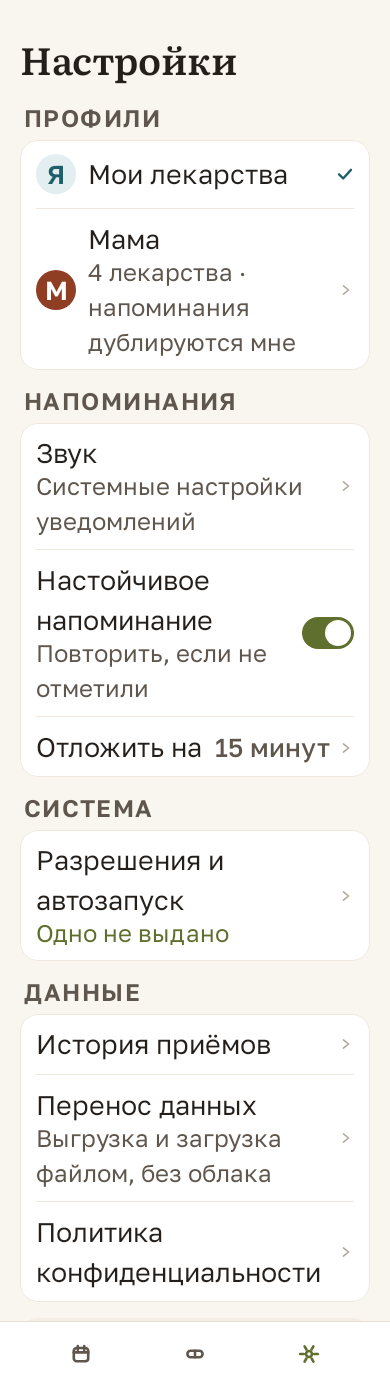
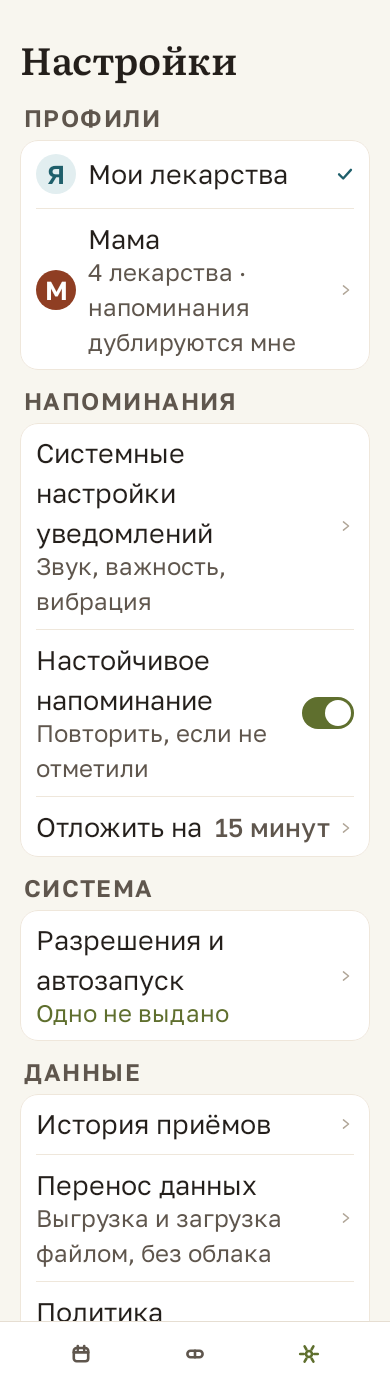
feat(SKL-134): let the settings row name the screen it opens
The row in the reminders block was called "Звук" and described as the system notification
settings. The title promised a melody picker, while the screen it opens holds much more: the
notification switch, both channels, and sound, importance, vibration and do-not-disturb for
each of them. The customer pointed at it while accepting the palette (SKL-109); Р-52 records
the decision.

The wording is not new: "Системные настройки уведомлений" is the caption ОВ-98 recorded and
ADR-0004 pins. It moves into the title (naming the screen), and the caption names what is
inside, in the words of the channel table of 10-behavior §5.6. The row still has no value,
still carries the chevron and still leads out of the app - that is ОВ-98 and ADR-0004 and did
not change. Code identifiers (`settings_sound`, `OpenSound`, `TAG_SOUND_ROW`) stay: they name
the entrance to where the reminder sound lives.

All six locales carry the pair. The German title could not be one long compound: the
localization matrix caught `System-Benachrichtigungseinstellungen` breaking inside a word in
the text column, which §10 forbids, so it became "Benachrichtigungen im System", wrapping at
spaces. §10 now names the rule for row copy - a word has to fit the column - and V-19 gained
the same orphan line seen on the English settings sheet.

Acceptance that asserted the old copy was brought to the new pair where it lived (SKL-20,
SKL-78), and the task has its own SKL-134.feature. Three settings baselines and six contact
[…]

diff --git a/app/src/testDebug/kotlin/ru/stohastika/sklyanka/acceptance/settings/SettingsRemindersScreenSteps.kt b/app/src/testDebug/kotlin/ru/stohastika/sklyanka/acceptance/settings/SettingsRemindersScreenSteps.kt
@@ -40,7 +40,8 @@ import ru.stohastika.sklyanka.feature.reminder.R as ReminderR
 import ru.stohastika.sklyanka.feature.settings.R as SettingsR
 
 /**
- * Экранные шаги приёмки настроек «Звук» и «Отложить на» (SKL-78, группа `@screen`).
+ * Экранные шаги приёмки строки перехода в системные настройки и «Отложить на»
+ * (SKL-78, SKL-134, группа `@screen`).
  *
  * Шаги живут в `app`, потому что сценарий последнего примера говорит и о карточке
  * напоминания (`feature-reminder`), и о настройках (`feature-settings`) — вместе их
@@ -65,10 +66,10 @@ class SettingsRemindersScreenSteps(private val world: AcceptanceWorld) {
         }
     }
 
-    // --- Звук ----------------------------------------------------------------------------------
+    // --- Строка перехода в системные настройки -------------------------------------------------
 
-    @Когда("^человек нажимает строку «Звук»$")
-    fun thePersonTapsTheSoundRow() {
+    @Когда("^человек нажимает строку «Системные настройки уведомлений»$")
+    fun thePersonTapsTheTransitionRow() {
         SettingsRemindersStand.act(world) {
             onNodeWithText(string(SettingsR.string.settings_sound), useUnmergedTree = true)
                 .performScrollTo()
@@ -79,14 +80,14 @@ class SettingsRemindersScreenSteps(private val world: AcceptanceWorld) {
     @Тогда("^приложение открывает системные настройки уведомлений приложения$")
     fun theAppOpensTheSystemNotificationSettings() {
         assertEquals(
-            "the «Звук» row must lead to the system notification settings (ОВ-98)",
+            "the row must lead to the system notification settings (ОВ-98, Р-52)",
             1,
             SettingsRemindersStand.soundOpened,
         )
     }
 
-    @Когда("^человек смотрит на строку «Звук»$")
-    fun thePersonLooksAtTheSoundRow() {
+    @Когда("^человек смотрит на строку «Системные настройки уведомлений»$")
+    fun thePersonLooksAtTheTransitionRow() {
         SettingsRemindersStand.ask(world) {
             onNodeWithText(string(SettingsR.string.settings_sound), useUnmergedTree = true).performScrollTo()
         }
@@ -105,12 +106,29 @@ class SettingsRemindersScreenSteps(private val world: AcceptanceWorld) {
         assertEquals("the sound must not be chosen inside the app (ПМ-15)", emptyList<String>(), offenders)
     }
 
-    @И("^строка подписана «Системные настройки уведомлений» и показывает шеврон$")
-    fun theRowNamesItsDestination() {
-        assertEquals("Системные настройки уведомлений", string(SettingsR.string.settings_sound_caption))
+    @И("^строка названа «Системные настройки уведомлений»$")
+    fun theRowIsNamedAfterTheScreenItOpens() {
+        // Пара «заголовок + подпись» — это и есть предмет приёмки (Р-52), поэтому ожидание
+        // названо литералом, а не взято из того же ресурса, что проверяется.
+        assertEquals("Системные настройки уведомлений", string(SettingsR.string.settings_sound))
         SettingsRemindersStand.ask(world) {
-            // Шеврон — не текст: о переходе говорит нажимаемость строки вместе с подписью.
-            onNode(hasText(string(SettingsR.string.settings_sound_caption)) and hasClickAction()).assertExists()
+            onNodeWithText(string(SettingsR.string.settings_sound), useUnmergedTree = true).assertExists()
+        }
+    }
+
+    @И("^строка подписана «Звук, важность, вибрация»$")
+    fun theRowNamesWhatTheScreenHolds() {
+        assertEquals("Звук, важность, вибрация", string(SettingsR.string.settings_sound_caption))
+        SettingsRemindersStand.ask(world) {
+            onNodeWithText(string(SettingsR.string.settings_sound_caption), useUnmergedTree = true).assertExists()
+        }
+    }
+
+    @И("^строка нажимается$")
+    fun theRowIsTappable() {
+        SettingsRemindersStand.ask(world) {
+            // Шеврон — не текст: о переходе говорит нажимаемость строки, а ведёт он наружу.
+            onNode(hasText(string(SettingsR.string.settings_sound)) and hasClickAction()).assertExists()
         }
     }
 
@@ -299,7 +317,7 @@ class SettingsRemindersScreenSteps(private val world: AcceptanceWorld) {
     )
 
     private companion object {
-        /** Прежнее фальшивое значение строки «Звук», снятое ОВ-98. */
+        /** Прежнее фальшивое значение строки, снятое ОВ-98. */
         const val FAKE_SOUND_VALUE = "Мягкий сигнал"
 
         /** Обещание выбора звука внутри приложения. */

diff --git a/feature-settings/src/testDebug/kotlin/ru/stohastika/sklyanka/acceptance/settings/SettingsScreenSteps.kt b/feature-settings/src/testDebug/kotlin/ru/stohastika/sklyanka/acceptance/settings/SettingsScreenSteps.kt
@@ -140,16 +140,17 @@ class SettingsScreenSteps(private val world: AcceptanceWorld) {
     }
 
     /**
-     * SKL-78, ОВ-98: у строки «Звук» значения нет, а подпись называет, куда ведёт переход.
+     * SKL-78, ОВ-98, Р-52: у строки значения нет, заголовок называет экран, в который она
+     * ведёт, а подпись — то, что на нём настраивается.
      *
      * Фальшивое «Мягкий сигнал» снято: звук — свойство неизменяемого канала, и выбирается
      * он в системном экране уведомлений приложения.
      */
-    @Тогда("^строка «Звук» не показывает значения и подписана «(.+?)»$")
-    fun theSoundRowCarriesNoValueButNamesThePlace(caption: String) {
+    @Тогда("^строка «Системные настройки уведомлений» не показывает значения и подписана «(.+?)»$")
+    fun theRowCarriesNoValueButNamesTheScreen(caption: String) {
         val state = SettingsScreenProbe.state(world)
-        assertTrue(hasText(state, string(R.string.settings_sound)), "the sound row must be there")
-        assertTrue(hasText(state, caption), "the sound row must carry «$caption»")
+        assertTrue(hasText(state, string(R.string.settings_sound)), "the transition row must be there")
+        assertTrue(hasText(state, caption), "the transition row must carry «$caption»")
         assertFalse(
             hasText(state, FAKE_SOUND_VALUE),
             "the fake sound value must be gone (ПМ-15 п. 3, ОВ-98)",
@@ -532,7 +533,7 @@ class SettingsScreenSteps(private val world: AcceptanceWorld) {
         val SOUND_KEYS = listOf("звук для", "звук лекарства", "выбрать звук")
         val LINKS = listOf("http", "www.", ".ru/", ".com/", "mailto")
 
-        /** Прежнее фальшивое значение строки «Звук», снятое ОВ-98. Литерал намеренный. */
+        /** Прежнее фальшивое значение строки, снятое ОВ-98. Литерал намеренный. */
         const val FAKE_SOUND_VALUE = "Мягкий сигнал"
 
         /**

diff --git a/feature-settings/src/testDebug/kotlin/ru/stohastika/sklyanka/feature/settings/SettingsScreenTest.kt b/feature-settings/src/testDebug/kotlin/ru/stohastika/sklyanka/feature/settings/SettingsScreenTest.kt
@@ -92,7 +92,8 @@ class SettingsScreenTest {
     }
 
     /**
-     * SKL-78, ОВ-98: у строки «Звук» значения нет, подпись называет, куда ведёт переход.
+     * SKL-78, ОВ-98, Р-52: у строки значения нет, заголовок называет экран, в который она
+     * ведёт, а подпись — то, что на нём настраивается.
      *
      * Прежнее фальшивое «Мягкий сигнал» снято: такого звука не существует, оба канала
      * звучат системными сигналами.
@@ -119,7 +120,7 @@ class SettingsScreenTest {
         composeRule.onNodeWithText(snooze, useUnmergedTree = true).assertExists()
     }
 
-    /** SKL-78, ОВ-98: «Звук» ведёт в системные настройки уведомлений приложения. */
+    /** SKL-78, ОВ-98, Р-52: строка перехода ведёт в системный экран уведомлений приложения. */
     @Test
     fun theSoundRowLeadsToTheSystemNotificationSettings() {
         val intents = mutableListOf<SettingsIntent>()
@@ -383,7 +384,7 @@ class SettingsScreenTest {
         const val SET_SIZE = 5
         const val THIRTY = 30
 
-        /** Прежнее фальшивое значение строки «Звук», снятое ОВ-98. Литерал намеренный. */
+        /** Прежнее фальшивое значение строки, снятое ОВ-98. Литерал намеренный. */
         const val SOUND_VALUE = "Мягкий сигнал"
 
         /**

diff --git a/feature-settings/src/main/kotlin/ru/stohastika/sklyanka/feature/settings/SettingsRoute.kt b/feature-settings/src/main/kotlin/ru/stohastika/sklyanka/feature/settings/SettingsRoute.kt
@@ -25,7 +25,8 @@ fun SettingsRoute(viewModel: SettingsViewModel, navigation: SettingsNavigation, 
             when (intent) {
                 SettingsIntent.AddProfile -> navigation.addProfile()
                 SettingsIntent.DeleteProfile -> navigation.deleteProfile()
-                // «Звук» ведёт в системные настройки уведомлений приложения (ОВ-98):
+                // Строка «Системные настройки уведомлений» ведёт в системный экран
+                // уведомлений приложения (ОВ-98, Р-52):
                 // платформенный `Intent` собирает `app`, экран о нём не знает.
                 SettingsIntent.OpenSound -> navigation.openSound()
                 SettingsIntent.OpenPermissions -> navigation.openDiagnostics()
@@ -61,7 +62,7 @@ data class SettingsNavigation(
      */
     val deleteProfile: () -> Unit = {},
     /**
-     * «Звук» → системные настройки уведомлений приложения (ОВ-98).
+     * «Системные настройки уведомлений» → системный экран уведомлений приложения (ОВ-98, Р-52).
      *
      * Звук и важность — свойство неизменяемого канала уведомлений (`ADR-0004`), и выбрать
      * их приложение не может: оно только приводит человека в системный экран каналов.

diff --git a/app/src/main/kotlin/ru/stohastika/sklyanka/MainActivity.kt b/app/src/main/kotlin/ru/stohastika/sklyanka/MainActivity.kt
@@ -151,7 +151,7 @@ class MainActivity : ComponentActivity() {
     /**
      * Переходы в системные настройки (SKL-78, ОВ-98).
      *
-     * Строка «Звук» ведёт в системный экран уведомлений приложения: выбор звука и важности
+     * Строка «Системные настройки уведомлений» ведёт в системный экран: выбор звука и важности
      * принадлежит каналу, а не приложению. Тот же переход, что у онбординга (SKL-14).
      */
     @Inject
@@ -554,7 +554,8 @@ class MainActivity : ComponentActivity() {
         // Р-29). Намерение и переход остаются швом пост-MVP: мастер вернётся без правки
         // навигации (SKL-121).
         addProfile = {},
-        // «Звук» — системный экран уведомлений приложения (ОВ-98): там оба
+        // Строка «Системные настройки уведомлений» — системный экран уведомлений
+        // приложения (ОВ-98, Р-52): там оба
         // канала и выбор звука с важностью для каждого.
         openSound = { systemSettings.openNotificationSettings() },
         // Решение по `ОВ-48`: сначала диагностика — что именно не так, —

diff --git a/app/src/testDebug/kotlin/ru/stohastika/sklyanka/acceptance/settings/SettingsRemindersStand.kt b/app/src/testDebug/kotlin/ru/stohastika/sklyanka/acceptance/settings/SettingsRemindersStand.kt
@@ -22,7 +22,7 @@ import ru.stohastika.sklyanka.ui.theme.SklyankaTheme
  * Модель **одна на сценарий**, а не собирается заново на каждый вопрос, как у
  * `SettingsAppProbe`: видимость выбора интервала живёт в состоянии экрана, и пересборка
  * между «открыл» и «выбрал» потеряла бы открытый диалог. Строки ведут наружу настоящим
- * `SettingsRoute`; «Звук» считается переходом, а не исполняется.
+ * `SettingsRoute`; строка перехода считается переходом, а не исполняется.
  */
 @OptIn(ExperimentalTestApi::class)
 internal object SettingsRemindersStand {
@@ -30,7 +30,7 @@ internal object SettingsRemindersStand {
     private var lastWorld: AcceptanceWorld? = null
     private var viewModel: SettingsViewModel? = null
 
-    /** Сколько раз «Звук» попросил системные настройки уведомлений (ОВ-98). */
+    /** Сколько раз строка перехода попросила системные настройки уведомлений (ОВ-98). */
     var soundOpened: Int = 0
         private set
 

diff --git a/app/src/testDebug/kotlin/ru/stohastika/sklyanka/acceptance/settings/Sk134SettingsRowAcceptanceTest.kt b/app/src/testDebug/kotlin/ru/stohastika/sklyanka/acceptance/settings/Sk134SettingsRowAcceptanceTest.kt
@@ -1,0 +1,30 @@
+package ru.stohastika.sklyanka.acceptance.settings
+
+import androidx.test.ext.junit.runners.AndroidJUnit4
+import org.junit.Assert.assertNull
+import org.junit.Test
+import org.junit.runner.RunWith
+import org.robolectric.annotation.Config
+import ru.stohastika.sklyanka.acceptance.run.ScreenAcceptanceRun
+
+/**
+ * Экранный прогон приёмки SKL-134 — пара подписей строки «Системные настройки уведомлений».
+ *
+ * Стенд и высота окна те же, что у прогона SKL-78: сценарии говорят о той же строке того же
+ * экрана, а экран длиннее окна телефона, поэтому стенд собирает его целиком. Прогон свой,
+ * а не общий: `ScreenAcceptanceRun` читает файл сценариев одной задачи.
+ */
+@RunWith(AndroidJUnit4::class)
+@Config(qualifiers = "ru-rRU-w390dp-h3000dp-mdpi")
+class Sk134SettingsRowAcceptanceTest {
+
+    @Test
+    fun theSettingsRowCopyScenariosRunOnTheStand() {
+        assertNull(ScreenAcceptanceRun.run(task = TASK, tags = TAGS))
+    }
+
+    private companion object {
+        const val TASK = "SKL-134"
+        const val TAGS = "@screen and @sound"
+    }
+}

diff --git a/feature-settings/src/main/kotlin/ru/stohastika/sklyanka/feature/settings/SettingsScreen.kt b/feature-settings/src/main/kotlin/ru/stohastika/sklyanka/feature/settings/SettingsScreen.kt
@@ -240,7 +240,8 @@ private fun ProfileRowState.initial(): String {
  *
  * Три строки, а не четыре: «Тихие часы» в продукт не идут.
  *
- * «Звук» — переход в системные настройки уведомлений приложения, и значения у строки нет:
+ * «Системные настройки уведомлений» — переход в системный экран уведомлений приложения,
+ * и значения у строки нет (Р-52):
  * выбор звука и важности живёт в системном экране каналов, а фальшивое «Мягкий сигнал»
  * описывало звук, которого не существует (ПМ-15 п. 3, ОВ-98). «Отложить на» — обычная
  * настройка: показывает текущий интервал и открывает выбор из набора [SnoozeIntervals].

diff --git a/app/src/testDebug/kotlin/ru/stohastika/sklyanka/acceptance/settings/SettingsRemindersAcceptanceTest.kt b/app/src/testDebug/kotlin/ru/stohastika/sklyanka/acceptance/settings/SettingsRemindersAcceptanceTest.kt
@@ -8,7 +8,8 @@ import org.robolectric.annotation.Config
 import ru.stohastika.sklyanka.acceptance.run.ScreenAcceptanceRun
 
 /**
- * Экранный прогон приёмки настроек «Звук» и «Отложить на» (SKL-78, группа `@screen`).
+ * Экранный прогон приёмки строки перехода в системные настройки и «Отложить на»
+ * (SKL-78, группа `@screen`).
  *
  * Прогон живёт в `app`: сценарий «интервал задаёт подпись кнопки» говорит и о настройках,
  * и о карточке напоминания, а вместе их видит только `app`. Экран длиннее окна телефона,

diff --git a/feature-settings/src/main/kotlin/ru/stohastika/sklyanka/feature/settings/SettingsRows.kt b/feature-settings/src/main/kotlin/ru/stohastika/sklyanka/feature/settings/SettingsRows.kt
@@ -88,7 +88,7 @@ internal fun SettingsRow(
     /**
      * Текущее значение строки перед шевроном («Отложить на» → «15 минут»).
      *
-     * Необязательно: у строки-перехода значения нет вовсе («Звук» ведёт в системные
+     * Необязательно: у строки-перехода значения нет вовсе (строка ведёт в системные
      * настройки, где живёт выбор звука), и показывать там нечего (ОВ-98).
      */
     value: String? = null,

diff --git a/feature-settings/src/main/kotlin/ru/stohastika/sklyanka/feature/settings/SettingsIntent.kt b/feature-settings/src/main/kotlin/ru/stohastika/sklyanka/feature/settings/SettingsIntent.kt
@@ -24,7 +24,7 @@ sealed interface SettingsIntent {
 
     data class SetPersistentReminder(val enabled: Boolean) : SettingsIntent
 
-    /** «Звук» — переход в системные настройки уведомлений приложения (ОВ-98). */
+    /** Переход строки «Системные настройки уведомлений» в системный экран приложения (ОВ-98, Р-52). */
     data object OpenSound : SettingsIntent
 
     /** «Отложить на» — открыть выбор интервала из [ru.stohastika.sklyanka.domain.reminder.SnoozeIntervals]. */

diff --git a/docs/v2/15-visual-findings.md b/docs/v2/15-visual-findings.md
@@ -81,7 +81,7 @@ en-US; системные панели (статус-бар в кадрах пу
 | V-16 | Заставка и фирменный блок (шрифт 200 %) | Название «Склянка» в фирменном блоке разрывается переносом по слогам | §10 (`12-design.md`): перенос, разрезавший слово, — нарушение; решение о ступени редукции — уровня заказчика. Заведено, ждёт задачи |
 | V-17 | История (шрифт 100 %) | Ряд трёх плиток сводки выходит с рваным низом: «принято вовремя» помещается в строку, «дни без пропусков» и «пропуски за месяц» переносятся, и плитки расходятся по высоте на 40 px (≈15 dp) при равной ширине и равных зазорах | §5.4 «три равные плитки в ряду»; тот же симптом назван в V-14 для шрифта 200 %. Заведено, ждёт задачи |
 | V-18 | История, локали en-US и zh-CN | Процент печатается с пробелом: «91 %», «71 %», «81 %», тогда как в тех же каталогах `history_percent_less_than_one` записан без пробела («< 1%»). Расхождение видно и до задачи (в разбивке по лекарствам), после V-2 стало видно и на плитке; прогон SKL-109 подтвердил расхождение на всех шести локалях | НФТ-42, Р-2 (шесть локалей); заведено, ждёт задачи |
-| V-19 | Архив, локаль en-US | Заголовок пустого состояния «The archive is empty for now» переносится так, что на второй строке остаётся одно слово — сиротская строка. Русская основа («Архив пока пуст») помещается в строку; матрица ловит разрезанное слово, но не сироту | §10 (`12-design.md`); заведено, ждёт задачи |
+| V-19 | Архив, локаль en-US | Заголовок пустого состояния «The archive is empty for now» переносится так, что на второй строке остаётся одно слово — сиротская строка. Русская основа («Архив пока пуст») помещается в строку; матрица ловит разрезанное слово, но не сироту | §10 (`12-design.md`); заведено, ждёт задачи. Та же сирота видна в `en-US/settings.png` — подпись строки профиля «4 medications · reminders are mirrored to / me» (прогон SKL-134, состояние утверждённое, побайтово равное эталону) |
 | V-20 | Разрешения из настроек («Set up reliability») | Вложенный экран без возврата: ни слова «Назад», ни шеврона — закрывается тихим действием «Done» в теле. §7 требует у вложенной шапки возврат слева и тихое действие справа; экран рисует свою шапку и задачей SKL-105 не трогался | §7; родственник V-7, а не его закрытая часть. «Считать ли экран вложенным» — решение дизайнера; заведено, ждёт задачи |
 | V-21 | «Сегодня» и корни вкладок | Ритм под шапкой в кадрах «после» отличается от «до»: разделитель группы «09:00» ниже на 33 px, на «Лекарствах» и «Архиве» содержимое выше на 39 px, «Настройки» ниже на 5 px, «История» без сдвига | **Не дефект задачи** (§7): у «Сегодня» зазор «шапка → содержимое» — `SklyankaSpacing.Section` 20 dp против прежних 8 dp поля прокрутки (12 dp × 2,75 = 33 px), у «Лекарств» и «Архива» снято удвоение `SklyankaSizes.HeaderBottomPadding` 14 dp (14 × 2,75 = 39 px), сдвиг «Настроек» — 5 px (≈2 dp) при ритме `Block` 16 dp, нормой не объяснён и оставлен названным, чтобы число не потерялось. Пересъём не нужен, задачи находка не требует |
 
